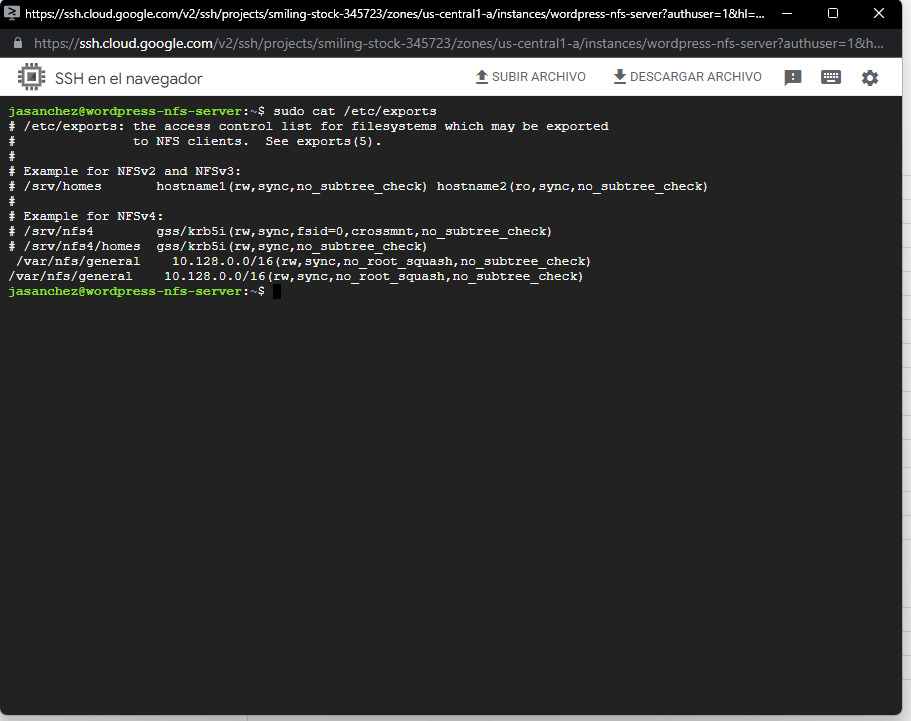
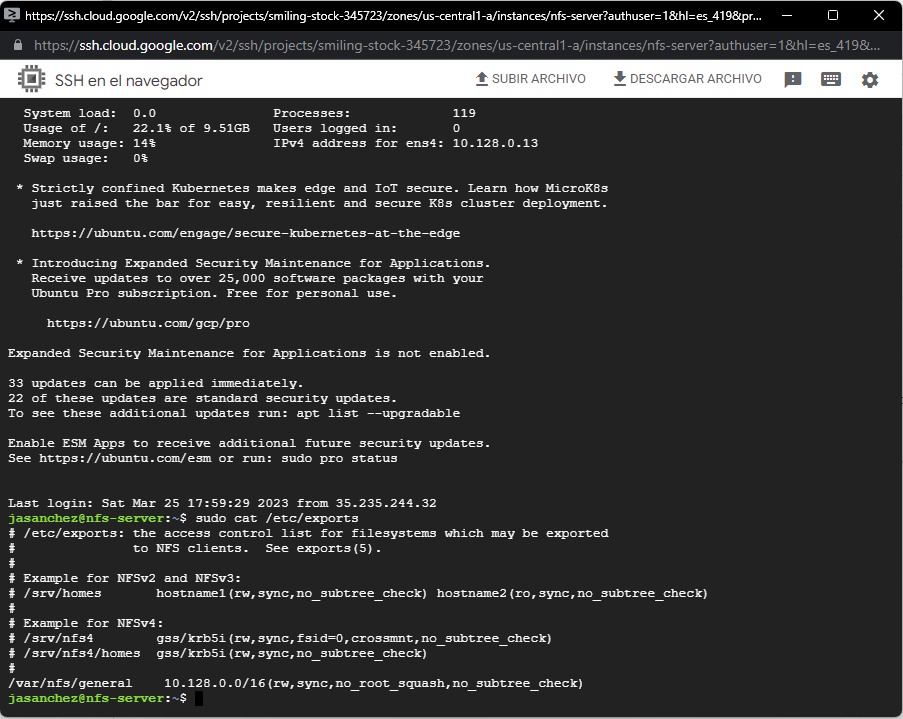
Cambios y adicion de README

diff --git a/Reto 3/README.md b/Reto 3/README.md
@@ -1,0 +1,131 @@
+# ST02363 Tópicos Especiales en Telemática
+
+# Estudiante: Jose Alejandro Sánchez Sánchez, jasanchez@eafit.edu.co
+
+# Profesor: Edwin Nelson Montoya Munera, emontoya@eafit.edu.co
+
+
+# Reto 3
+
+
+# 1. breve descripción de la actividad
+
+  
+
+## 1.1. Qué aspectos cumplió o desarrolló de la actividad propuesta por el profesor (requerimientos funcionales y no funcionales)
+
+
+
+## 1.2. Que aspectos NO cumplió o desarrolló de la actividad propuesta por el profesor (requerimientos funcionales y no funcionales)
+
+Todos los requerimientos fueron implementados.
+
+# 2. información general de diseño de alto nivel, arquitectura, patrones, mejores prácticas utilizadas.
+
+![Arquitectura](./images/Arquitectura.png)
+
+
+# 3. Descripción del ambiente de desarrollo y técnico: lenguaje de programación, librerias, paquetes, etc, con sus numeros de versiones.
+
+
+
+# 3.1 Como se compila y ejecuta.
+Para cada maquina se tiene que verificar de que los contenedores esten *up* y para eso se tiene que subir los docker-compose para cada una de la maquina.
+
+1. Para la maquina de la base de datos:
+    - **Entrar a la maquina por SSH->sschez-st0263-jasanchez->Reto 3->Wordpress-db**
+    - **Después utilizar el siguiente comando:**
+        - *docker-compose -f docker-compose-solo-wordpress-db.yml up -d*
+
+
+2. Para la maquina de Wordpress-1:
+    - **Entrar a la maquina por SSH->sschez-st0263-jasanchez->Reto 3->Wordpress-1**
+    - **Después utilizar el siguiente comando:**
+        - *docker-compose -f docker-compose-solo-wordpress-with-nfsclient.yml up -d*
+
+
+3. Para la maquina de Wordpress-2:
+    - **Entrar a la maquina por SSH->sschez-st0263-jasanchez->Reto 3->Wordpress-2**
+    - **Después utilizar el siguiente comando:**
+        - *docker-compose -f docker-compose-solo-wordpress-with-nfsclient.yml up -d*
+
+4. Para la maquina de NGINX:
+    - **Entrar a la maquina por SSH->wordpress**
+    - **Después utilizar el siguiente comando:**
+        - *docker-compose -f docker-compose-solo-nginx up -d*
+
+Despues ya solo es ingresar al dominio: https://www.jasanchez.online y se veran los resultados.
+
+# 3.2 Detalles del desarrollo.
+Los detalles mas importantes en el desarrollo fueron: 
+1. En la maquina virtual de NGINX se tuvo que hacer un proceso mas largo, debido a que se debia de sacar la certificación para poder que el dominio corriera por *https*. Luego se tuvo que modificar el *nginx.config* para que actuara como *LOAD BALANCER* y que redireccionara la carga a los wordpress.
+
+2. En la maquina del NFS, se tuvo que colocar la siguiente linea en /etc/exports
+
+        /var/nfs/general    10.128.0.0/16(rw,sync,no_root_squash,no_subtree_check)
+
+    Para poder tener la comunicacion con ambos wordpres y poder guardar los archivos en su respectiva carpeta.
+
+3. Para los Wordpress, se tuvo que agregar la dirección IP de la base de datos para cada docker-compose y ademas de eso se tuvo que realizar el comando
+
+        sudo mount 10.128.0.5:/var/nfs/general /mnt/wordpress
+
+    Para poder montar los datos en el nfs y que ambos wordpress recogieran la misma información.
+
+
+# 3.3 Detalles técnicos:
+- **Plataforma y servicios en nube:** Amazon GCP (Ubuntu 22.04 LTS)
+- **Orquestación del proyecto:** Docker
+
+# 3.4 Descripción y como se configura los parámetros del proyecto (ej: ip, puertos, conexión a bases de datos, variables de ambiente, parámetros, etc)
+
+En primer lugar se comenzo creando 5 maquinas virtuales (NGINX, WP1,WP2,BD,NFS). Para la maquina de 
+
+
+# 3.5 Detalles de la organización del código por carpetas o descripción de algún archivo. (ESTRUCTURA DE DIRECTORIOS Y ARCHIVOS IMPORTANTE DEL PROYECTO, comando 'tree' de linux)
+
+![](./assets/tree.png)
+
+# 4. Descripción del ambiente de EJECUCIÓN (en producción) lenguaje de programación, librerias, paquetes, etc, con sus numeros de versiones.
+
+El proyecto se realizo en 5 maquinas virtuales:
+
+1. Ngnix: Como un balanceador de cargas.
+
+2. Wordpress-1: Wordpress aislado.
+
+        nfs-common
+
+3. Wordpress-2: Wordpress aislado.
+
+        nfs-common
+
+4. Base de Datos: Base de datos mysql aislada pero conectada con ambos Wordpress.
+
+5. NFS-Server: Servidor que sirve para que los cambios que se hagan en ambos wordpress se vean reflejados en la misma base de datos y no sean diferentes sino que cada uno tenga la misma copia en tiempo real. 
+
+        nfs-kernel-server
+
+# IP o nombres de dominio en nube o en la máquina servidor.
+- https://www.jasanchez.online : Es el dominio donde esta el Reto 3 completo.
+
+## Descripción y como se configura los parámetros del proyecto (ej: ip, puertos, conexión a bases de datos, variables de ambiente, parámetros, etc)
+
+  Puesto que el proyecto se construyó utilizando docker-compose, el ambiente de ejecucion tanto en desarrollo como en producción es el mismo. Lo que se debe tener presente es que deben habilitar los puertos necesarios en AWS para permitir las comunicaciones.
+
+
+## Como se lanza el servidor.
+
+
+
+## Una mini guia de como un usuario utilizaría el software o la aplicación
+
+
+## Resultados
+
+![](./assets/Resultado.png)
+
+
+# referencias:
+
+#### versión README.md -> 1.0 (2022-agosto)
